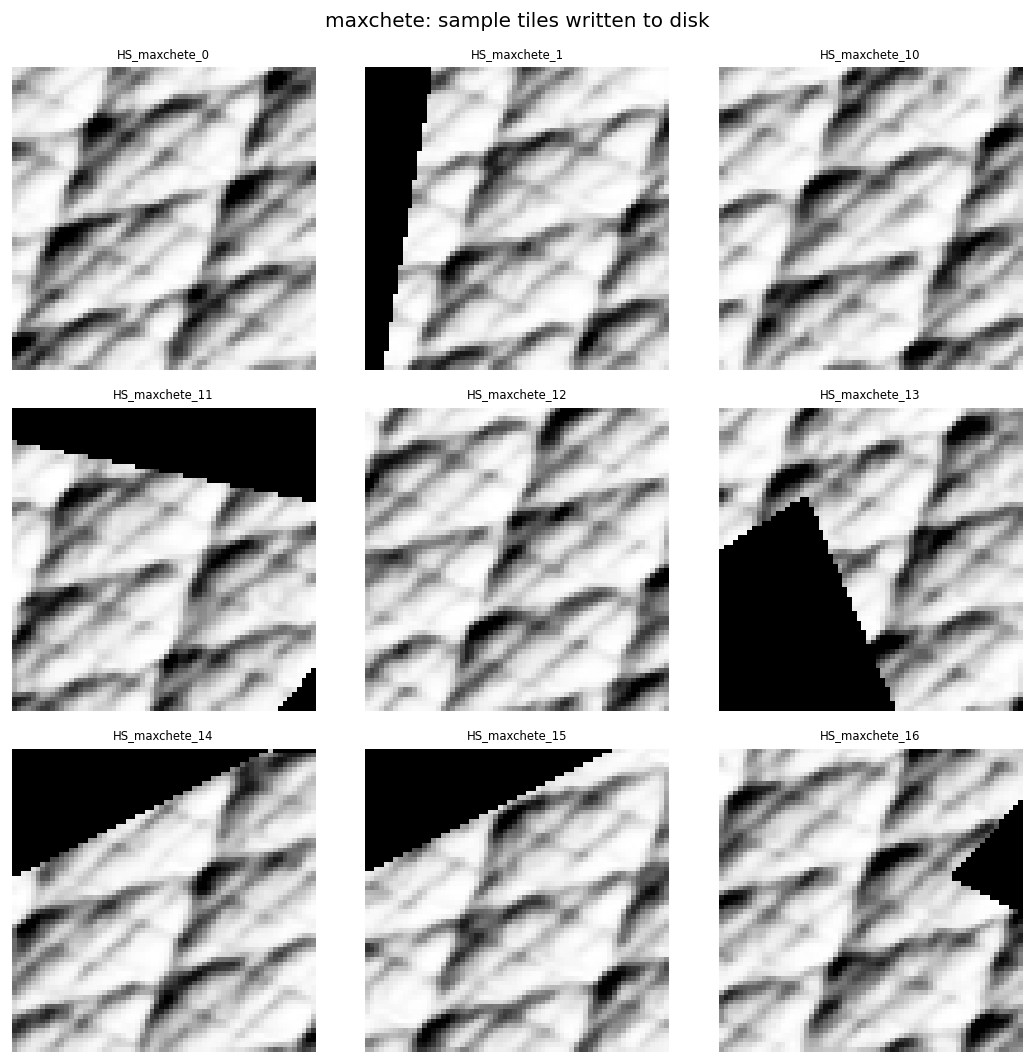
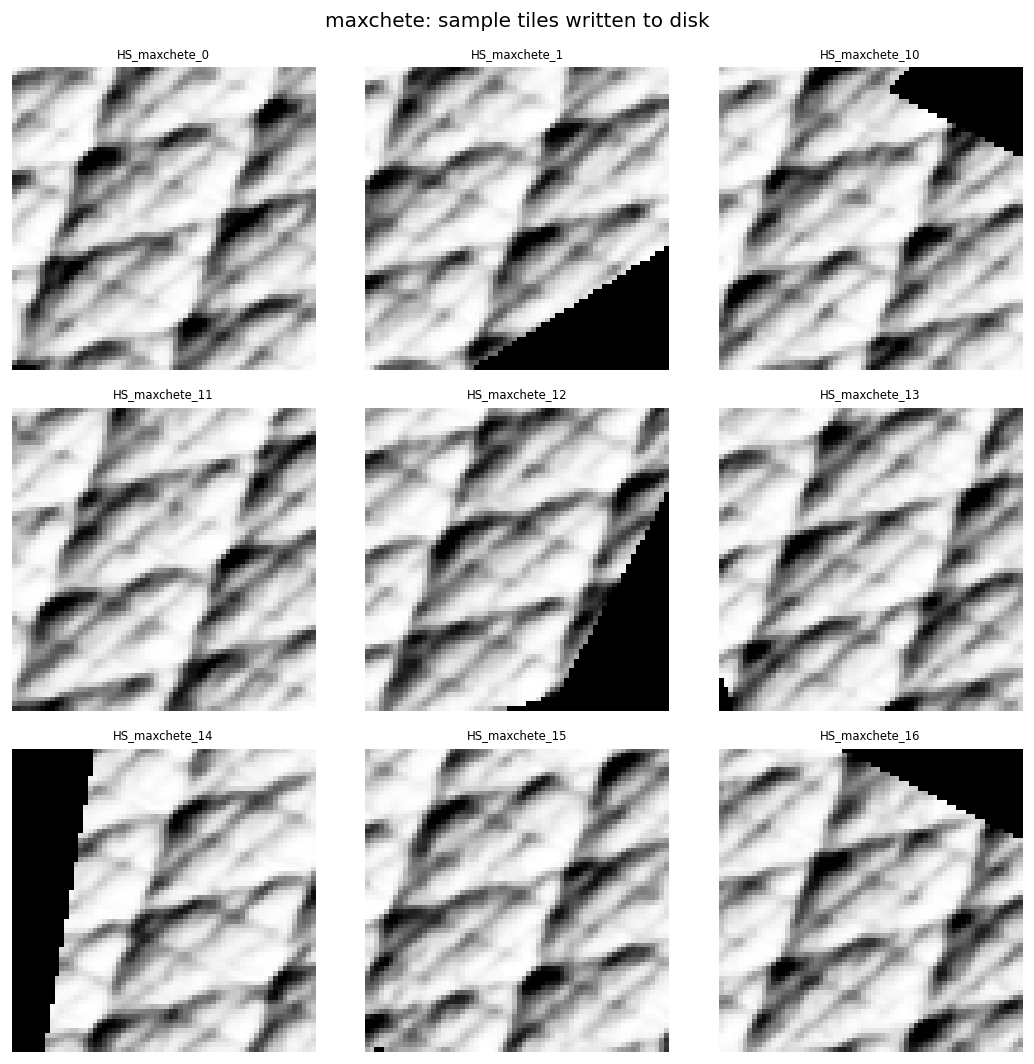
README: replace stale comparison table with new demo comparison and 3D surfaces
- Drop the old hosted random-vs-max iteration table that no longer matched the
  current strategies.
- Add randchete-vs-maxchete 3D coverage surfaces (docs/img) to the "Study the
  output" section to show the spiky-vs-even contrast.
- Demo now also renders the randchete 3D surface.

diff --git a/examples/demo.py b/examples/demo.py
@@ -227,9 +227,11 @@ def main(outdir: str = "examples/output") -> dict:
             valid = tiler.array != tiler.nodata
             _save_input(tiler, out)
         _save_distribution(tiler, name, metrics, out)
-        # 3D surface + a tile montage for the two "smart" strategies.
-        if name in ("maxchete", "infochete"):
+        # 3D surfaces (randchete kept for the spiky-vs-even contrast) and a tile
+        # montage for the two "smart" strategies.
+        if name in ("randchete", "maxchete", "infochete"):
             _save_surface(tiler, name, out)
+        if name in ("maxchete", "infochete"):
             _save_tile_montage(tiles_dir, name, out)
 
     _save_comparison(distributions, valid, out)

diff --git a/tests/test_demo.py b/tests/test_demo.py
@@ -34,6 +34,7 @@ def test_demo_generates_images_and_proves_purpose(demo_module, tmp_path):
                 "11_comparison.png",
                 "10_distribution_maxchete.png",
                 "10_distribution_infochete.png",
+                "20_surface_randchete.png",
                 "20_surface_maxchete.png",
                 "20_surface_infochete.png",
                 "30_tiles_maxchete.png",

diff --git a/README.md b/README.md
@@ -21,16 +21,6 @@ With an input of shape:
   <img width="300" alt="mapchete_final" src="https://user-images.githubusercontent.com/76526314/219682129-756f265c-6f4c-4c20-bc2e-bc5e438f4721.png">
 </p>
 
-How is the spatial distribution of tiles? (Not normalized scales)
-
-Iterations | RANDchete (random) | MAXchete (maximize)
---- | --- | ---
-100 iter | ![](https://user-images.githubusercontent.com/76526314/219666167-64e7f0a8-df76-4422-8665-a6f908b0a98b.png) | ![](https://user-images.githubusercontent.com/76526314/219665645-7eefad2e-bc33-43cb-99fa-5374f6c84ea4.png)
-1000 iter | ![image](https://user-images.githubusercontent.com/76526314/219706410-985e57b5-5698-49e6-afdb-856fe01c073b.png) | ![image](https://user-images.githubusercontent.com/76526314/219707072-d8134441-64ba-41a3-a23a-74466f6c5bda.png)
-std (1000 iter) | &plusmn; 9.1  |  &plusmn; 3.9
-
-Compared to the random sample, the data is now more evenly distributed and the standard deviation has been reduced by over 2 times which shows library's effectiveness.
-
 # See it in action
 
 The library ships a runnable demo that synthesizes a **mountainous hillshade clipped to an irregular polygon** — valid data surrounded by `nodata`, exactly the kind of geospatial raster mapchete targets — and runs every strategy on it:
@@ -107,12 +97,16 @@ Each saved tile is a GeoTIFF (plus a pickle of its source `Window`). Edge tiles 
 </p>
 
 ### Study the output
+
+`get_3Ddistribution()` plots the tile coverage as a 3D surface — and the contrast is the whole point of the library. Random sampling piles up into sharp spikes (some areas over-sampled, others bare), while `maxchete` produces a smooth, even plateau:
+
 ```python 
 fig, ax = maxchete.get_3Ddistribution()
 ```
 
 <p align="center">
-  <img width="500" alt="mapchete_final" src="https://user-images.githubusercontent.com/76526314/219876116-ce051ecf-021d-4996-bc1b-e68274f624b1.png">
+  <img width="390" alt="randchete 3D coverage" src="docs/img/surface_randchete.png">
+  <img width="390" alt="maxchete 3D coverage" src="docs/img/surface_maxchete.png">
 </p>
 
 